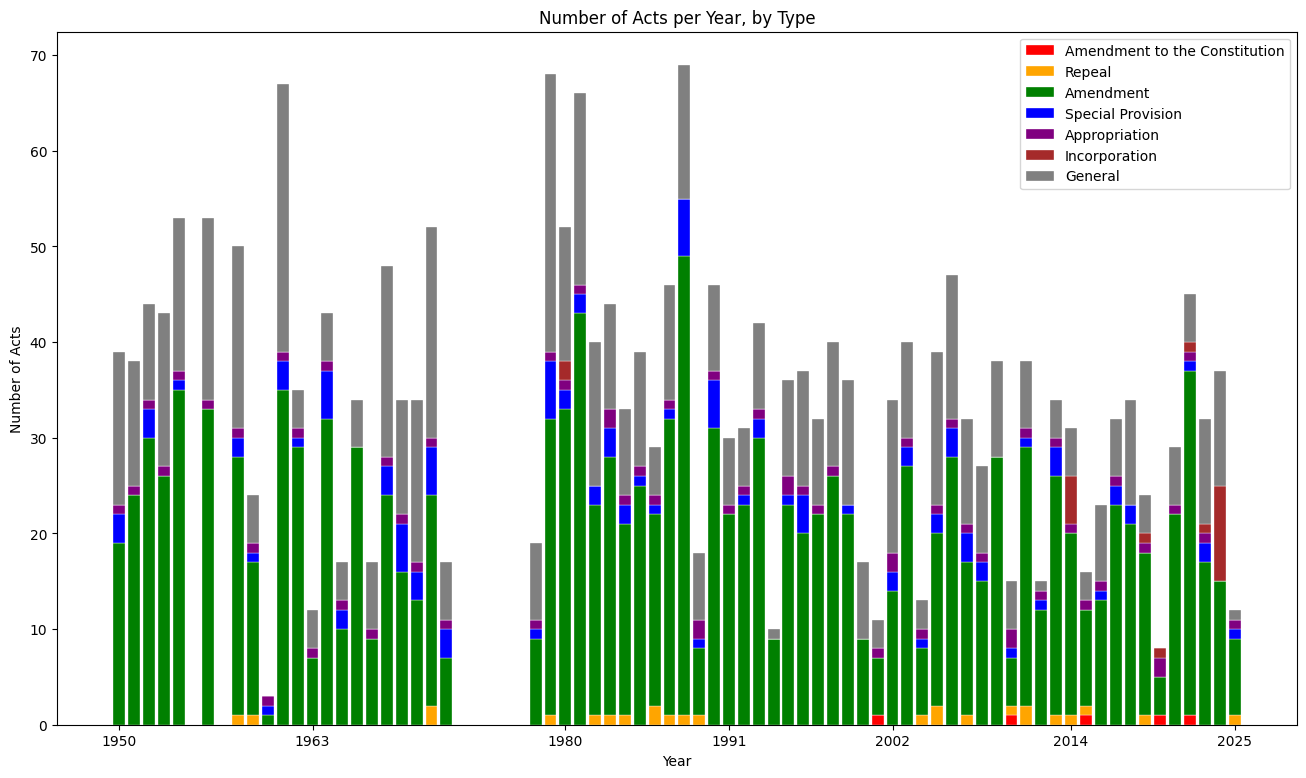
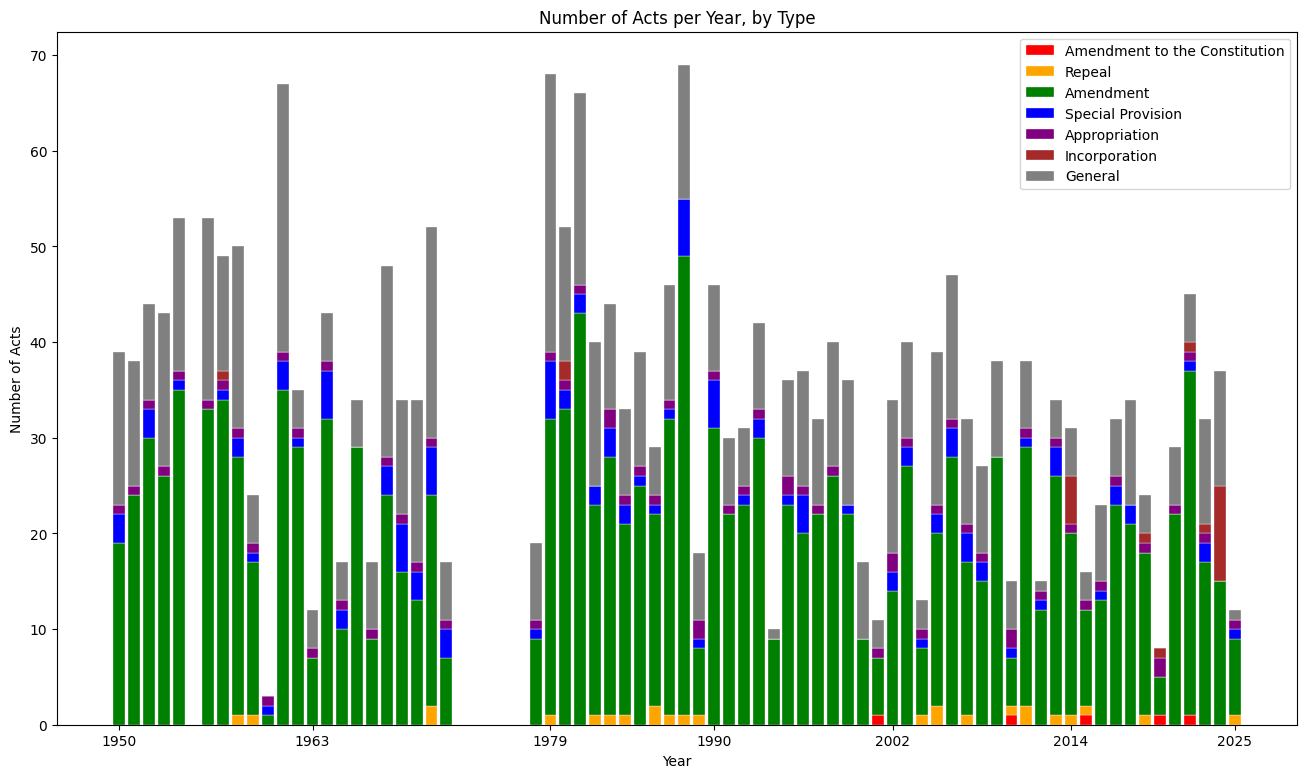
🤖 [build_readme.yml] 2025-08-17-1435

Changed region(s): [[0.1531, 0.3393, 0.1838, 0.9254], [0.5207, 0.9254, 0.5819, 0.9563], [0.3982, 0.9254, 0.4594, 0.9563]]

diff --git a/README.md b/README.md
@@ -1,10 +1,10 @@
 # 🇱🇰 Acts from the Sri Lankan Parliament ([lk_acts](https://github.com/nuuuwan/lk_acts))
 
-Scraped  **2,343** acts (1.34 MB) from [www.parliament.lk](https://www.parliament.lk/en) as of **2025-08-17 19:08:36**.
+Scraped  **2,392** acts (1.35 MB) from [www.parliament.lk](https://www.parliament.lk/en) as of **2025-08-17 20:05:42**.
 
 ![Year Chart](images/chart_year.png)
 
-## Acts (2,343)
+## Acts (2,392)
 
 ### 2025 (12)
 
@@ -2267,6 +2267,58 @@ Scraped  **2,343** acts (1.34 MB) from [www.parliament.lk](https://www.parliamen
 - 🟢 `03/1958` [Food and Drugs (Amendment)](data/acts/1950s/1958/1958-003) (1958-02-20)
 - ⚪ `02/1958` [Tea and Rubber Estates (Control of Fragmentation)](data/acts/1950s/1958/1958-002) (1958-02-01)
 - ⚪ `01/1958` [Paddy Lands](data/acts/1950s/1958/1958-001) (1958-02-01)
+
+### 1957 (49)
+
+- 🟢 `62/1957` [Industrial Disputes (Amendment)](data/acts/1950s/1957/1957-062) (1957-12-30)
+- ⚪ `61/1957` [Overseas Telecommunication](data/acts/1950s/1957/1957-061) (1957-12-21)
+- 🟢 `60/1957` [Shop and Office Employees (Regulation of Employment and Remuneration) (Amendment)](data/acts/1950s/1957/1957-060) (1957-12-21)
+- 🟢 `59/1957` [Electricity(Amendment)](data/acts/1950s/1957/1957-059) (1957-12-21)
+- 🟢 `58/1957` [National Planning Council (Amendment)](data/acts/1950s/1957/1957-058) (1957-12-21)
+- 🟢 `57/1957` [Holidays (Amendment)](data/acts/1950s/1957/1957-057) (1957-12-21)
+- 🟢 `56/1957` [Income Tax (Amendment)](data/acts/1950s/1957/1957-056) (1957-12-21)
+- 🟢 `55/1957` [Government sponsored Corporations(Amendment)](data/acts/1950s/1957/1957-055) (1957-12-21)
+- ⚪ `54/1957` [Director of Food Production (Change of Designation)](data/acts/1950s/1957/1957-054) (1957-10-20)
+- 🟢 `53/1957` [Profit Tax (Amendment)](data/acts/1950s/1957/1957-053) (1957-12-20)
+- 🟢 `52/1957` [Rubber Research (Amendment)](data/acts/1950s/1957/1957-052) (1957-12-20)
+- ⚪ `51/1957` [Tea Control](data/acts/1950s/1957/1957-051) (1957-11-29)
+- 🟢 `50/1957` [Plant Protection (Amendment)](data/acts/1950s/1957/1957-050) (1957-11-01)
+- ⚪ `49/1957` [State Industrial Corporations](data/acts/1950s/1957/1957-049) (1957-11-01)
+- ⚪ `48/1957` [Motor Transport](data/acts/1950s/1957/1957-048) (1957-10-31)
+- 🟢 `46/1957` [Medical Wants (Amendment)](data/acts/1950s/1957/1957-046) (1957-10-25)
+- 🟢 `45/1957` [Rubber Control (Amendment)](data/acts/1950s/1957/1957-045) (1957-10-25)
+- 🟢 `44/1957` [Control of Prices (Amendment)](data/acts/1950s/1957/1957-044) (1957-10-25)
+- 🟣 `43/1957` [Appropriation (1957-1958)](data/acts/1950s/1957/1957-043) (1957-09-19)
+- ⚪ `42/1957` [Bank Debits Tax](data/acts/1950s/1957/1957-042) (1957-09-06)
+- ⚪ `41/1957` [Servicemen(Collection and Disposal of Specified Property)](data/acts/1950s/1957/1957-041) (1957-09-06)
+- ⚪ `40/1957` [Estate Duty (Amendmenet)](data/acts/1950s/1957/1957-040) (1957-09-06)
+- 🟢 `39/1957` [Co-operative Wholesale Establishment (Amendment)](data/acts/1950s/1957/1957-039) (1957-09-06)
+- 🟢 `38/1957` [Income Tax (Amendment)](data/acts/1950s/1957/1957-038) (1957-09-06)
+- 🟢 `32/1957` [Civil Procedure Code (Amendment)](data/acts/1950s/1957/1957-032) (1957-05-02)
+- 🟢 `31/1957` [Workmen's Compensation (Amendment)](data/acts/1950s/1957/1957-031) (1957-05-02)
+- 🟢 `30/1957` [Food Supplies (Amendment)](data/acts/1950s/1957/1957-030) (1957-05-02)
+- ⚪ `29/1957` [Foreign Loans](data/acts/1950s/1957/1957-029) (1957-04-13)
+- 🟢 `28/1957` [Village Communities and Town Councils (Amendment)](data/acts/1950s/1957/1957-028) (1957-04-15)
+- 🟢 `27/1957` [Wages Boards (Amendment)](data/acts/1950s/1957/1957-027) (1957-04-13)
+- 🟢 `26/1957` [Gaming (Amendment)](data/acts/1950s/1957/1957-026) (1957-04-13)
+- 🟢 `25/1957` [Bills of Exchange(Amendment)](data/acts/1950s/1957/1957-025) (1957-04-13)
+- 🟢 `24/1957` [Post Office (Amendment)](data/acts/1950s/1957/1957-024) (1957-04-13)
+- 🟢 `23/1957` [School Teachers Pension (Amendment)](data/acts/1950s/1957/1957-023) (1957-04-13)
+- ⚪ `22/1957` [Tax Reserve Certificates](data/acts/1950s/1957/1957-022) (1957-04-13)
+- ⚪ `21/1957` [Prevention of Social Disabilities](data/acts/1950s/1957/1957-021) (1957-04-13)
+- 🟢 `20/1957` [Young Men's Buddhist Association, Colombo (Amendment)](data/acts/1950s/1957/1957-020) (1957-04-13)
+- 🟤 `19/1957` [Automobile Association of  Ceylon(Incorporation)](data/acts/1950s/1957/1957-019) (1957-03-28)
+- 🟢 `18/1957` [Ceylon State Mortgage Bank (Amendment)](data/acts/1950s/1957/1957-018) (1957-03-28)
+- ⚪ `17/1957` [Defence Regulations (Resuscitation)](data/acts/1950s/1957/1957-017) (1957-03-28)
+- 🟢 `16/1957` [Rubber  Control (Amendment)](data/acts/1950s/1957/1957-016) (1957-03-28)
+- 🟢 `15/1957` [Municipal Councils(Amendment)](data/acts/1950s/1957/1957-015) (1957-03-28)
+- 🟢 `14/1957` [Industrial Disputes (Amendment)](data/acts/1950s/1957/1957-014) (1957-03-28)
+- 🟢 `08/1957` [Tea, Rubber and Coconut Research (Amendment)](data/acts/1950s/1957/1957-008) (1957-03-18)
+- 🟢 `06/1957` [Maintenance Orders (Facilities for Enforcement)(Amendment)](data/acts/1950s/1957/1957-006) (1957-03-02)
+- 🟢 `05/1957` [Control of the Possession of Food (Amendment)](data/acts/1950s/1957/1957-005) (1957-02-21)
+- 🟢 `03/1957` [Petrol (Control of Supplies)(Amendment)](data/acts/1950s/1957/1957-003) (1957-01-24)
+- 🔵 `02/1957` [Local Authorities(Special Provisions)](data/acts/1950s/1957/1957-002) (1957-01-24)
+- 🟢 `01/1957` [Widow's  and Orphans' pension Fund (Amendment)](data/acts/1950s/1957/1957-001) (1957-01-24)
 
 ### 1956 (53)
 
